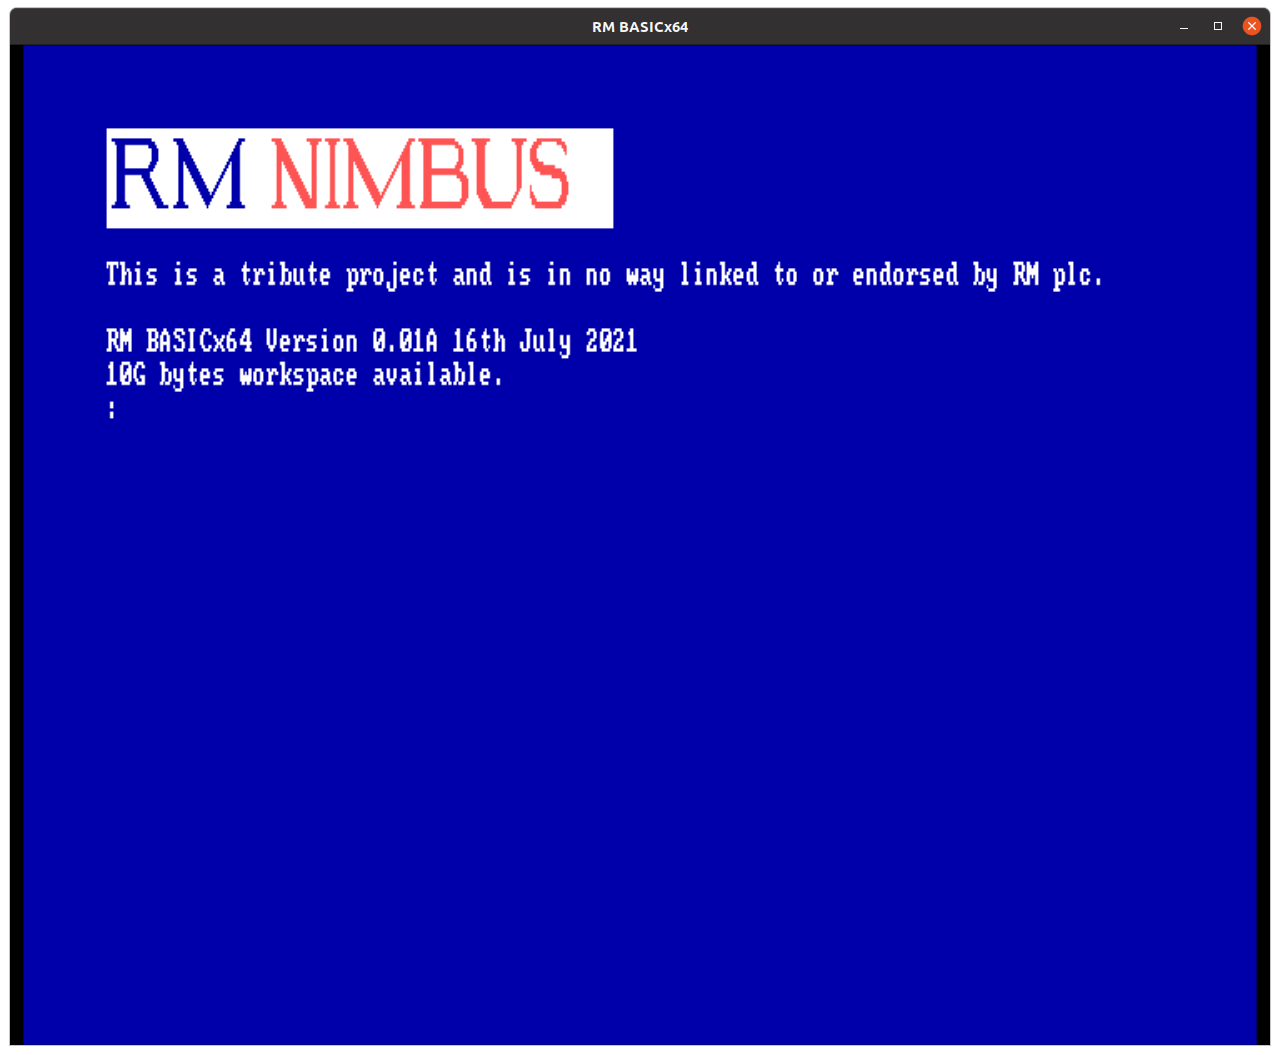
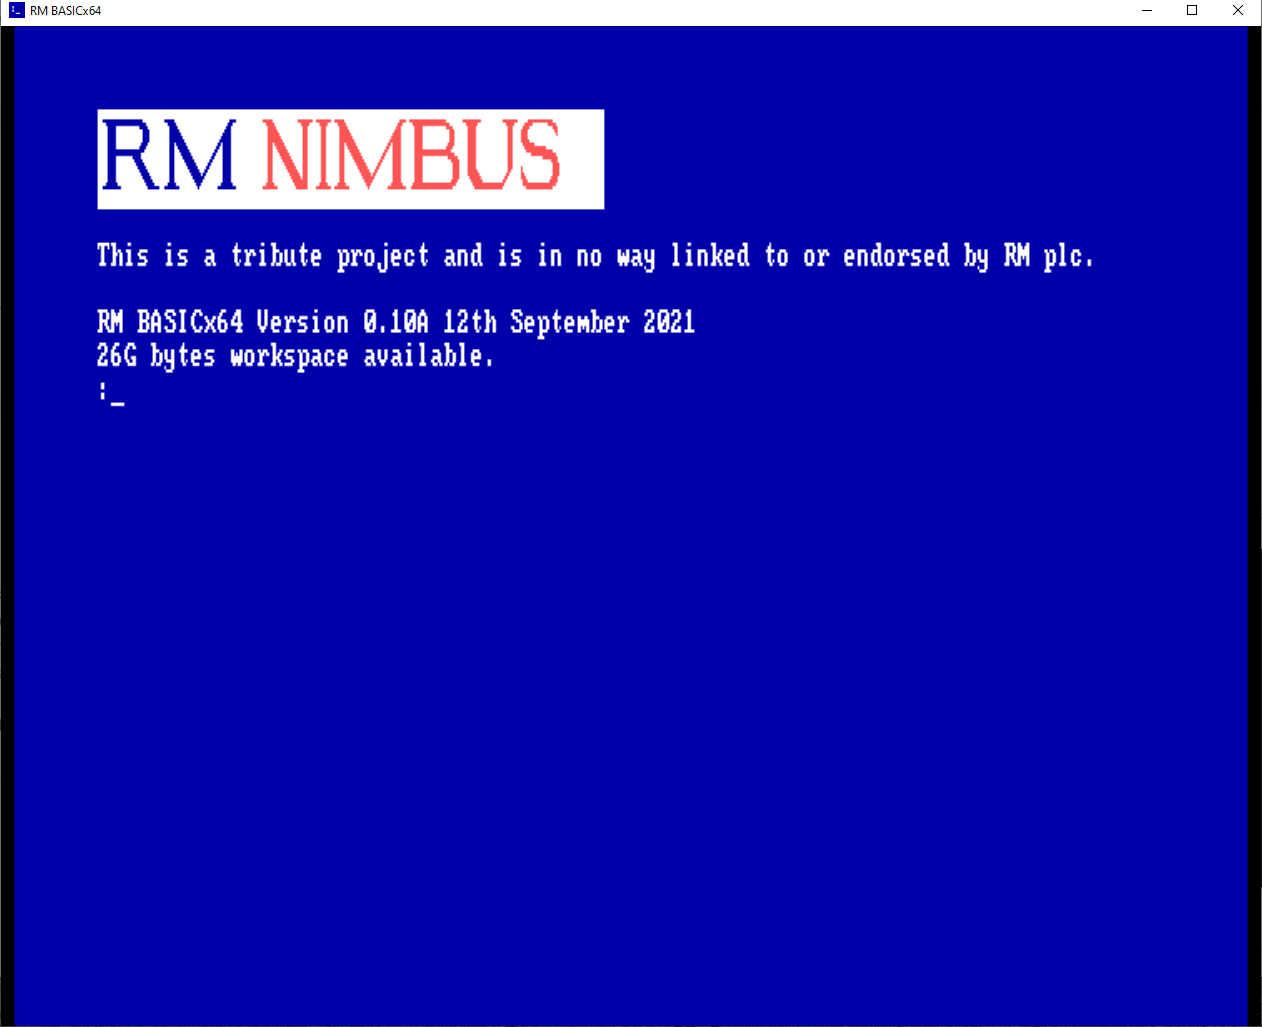
new screenshots

Changed region(s): [[0.0, 0.0, 1.0, 1.0], [0.0618, 0.0935, 0.8653, 0.4051]]

diff --git a/README.md b/README.md
@@ -53,13 +53,21 @@ If you get a message saying "Windows protected your PC" click "More info" then "
 
 ## Screenshots
 
-![RM BASICx64 running on Ubuntu](https://github.com/adamstimb/rmbasicx64/blob/main/docs/screenshots/interpreter-loaded.png)
+![RM BASICx64 running on Windows 10](https://github.com/adamstimb/rmbasicx64/blob/main/docs/screenshots/interpreter-loaded.png)
 
-RM BASICx64 running on Ubuntu
+RM BASICx64 running on Windows 10
 
-![Some lyrics from "Bike" by The Pink Floyd printed with string evaluation](https://github.com/adamstimb/rmbasicx64/blob/main/docs/screenshots/bike-lyrics.png)
+![Editing a program](https://github.com/adamstimb/rmbasicx64/blob/main/docs/screenshots/editing-a-program.png)
 
-Some lyrics from "Bike" by The Pink Floyd printed with string evaluation
+Editing a program
+
+![Greetings](https://github.com/adamstimb/rmbasicx64/blob/main/docs/screenshots/greetings.png)
+
+Using big fonts to say hello
+
+![Mandelbrot Set](https://github.com/adamstimb/rmbasicx64/blob/main/docs/screenshots/mandelbrot-set.png)
+
+The Mandelbrot Set
 
 ## Links
 
